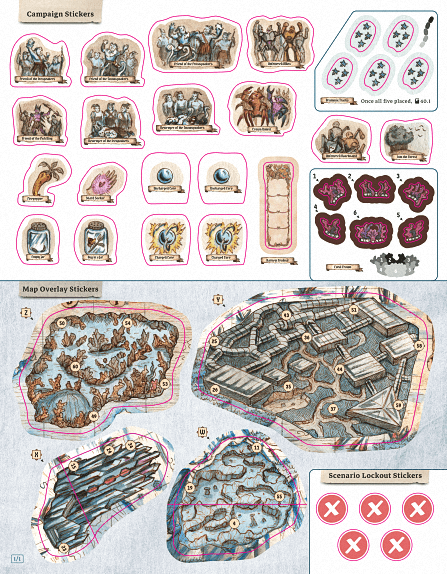
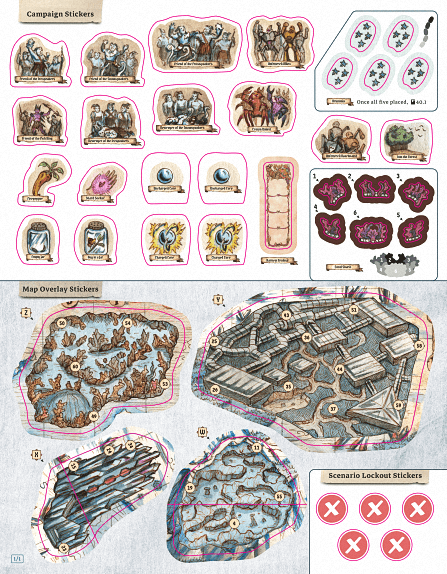
Implement FH DA ACS

diff --git a/data/deprecated-assets.js b/data/deprecated-assets.js
@@ -4179,57 +4179,85 @@
     "xws": "cspqrm002deprecated"
   },
   {
-    "name": "render 0 deprecated",
+    "name": "campaign stickers dl deprecated",
     "points": 597,
+    "expansion": "Frosthaven",
+    "image": "deprecated-assets/frosthaven/art/stickers/sheets/die-lines/fh-campaign-stickers-dl-v1.png",
+    "xws": "campaignstickersdldeprecated"
+  },
+  {
+    "name": "campaign stickers dl deprecated",
+    "points": 598,
+    "expansion": "Frosthaven",
+    "image": "art/frosthaven/stickers/sheets/die-lines/fh-campaign-stickers-dl.png",
+    "xws": "campaignstickersdldeprecated"
+  },
+  {
+    "name": "campaign stickers ndl deprecated",
+    "points": 599,
+    "expansion": "Frosthaven",
+    "image": "deprecated-assets/frosthaven/art/stickers/sheets/no-die-lines/fh-campaign-stickers-ndl-v1.png",
+    "xws": "campaignstickersndldeprecated"
+  },
+  {
+    "name": "campaign stickers ndl deprecated",
+    "points": 600,
+    "expansion": "Frosthaven",
+    "image": "art/frosthaven/stickers/sheets/no-die-lines/fh-campaign-stickers-ndl.png",
+    "xws": "campaignstickersndldeprecated"
+  },
+  {
+    "name": "render 0 deprecated",
+    "points": 601,
     "expansion": "Frosthaven",
     "image": "deprecated-assets/frosthaven/boss-stat-cards/fh-render-0-v1.png",
     "xws": "render0deprecated"
   },
   {
     "name": "render 0 deprecated",
-    "points": 598,
+    "points": 602,
     "expansion": "Frosthaven",
     "image": "monster-stat-cards/frosthaven/fh-render-0.png",
     "xws": "render0deprecated"
   },
   {
     "name": "render 2 deprecated",
-    "points": 599,
+    "points": 603,
     "expansion": "Frosthaven",
     "image": "deprecated-assets/frosthaven/boss-stat-cards/fh-render-2-v1.png",
     "xws": "render2deprecated"
   },
   {
     "name": "render 2 deprecated",
-    "points": 600,
+    "points": 604,
     "expansion": "Frosthaven",
     "image": "monster-stat-cards/frosthaven/fh-render-2.png",
     "xws": "render2deprecated"
   },
   {
     "name": "render 4 deprecated",
-    "points": 601,
+    "points": 605,
     "expansion": "Frosthaven",
     "image": "deprecated-assets/frosthaven/boss-stat-cards/fh-render-4-v1.png",
     "xws": "render4deprecated"
   },
   {
     "name": "render 4 deprecated",
-    "points": 602,
+    "points": 606,
     "expansion": "Frosthaven",
     "image": "monster-stat-cards/frosthaven/fh-render-4.png",
     "xws": "render4deprecated"
   },
   {
     "name": "render 6 deprecated",
-    "points": 603,
+    "points": 607,
     "expansion": "Frosthaven",
     "image": "deprecated-assets/frosthaven/boss-stat-cards/fh-render-6-v1.png",
     "xws": "render6deprecated"
   },
   {
     "name": "render 6 deprecated",
-    "points": 604,
+    "points": 608,
     "expansion": "Frosthaven",
     "image": "monster-stat-cards/frosthaven/fh-render-6.png",
     "xws": "render6deprecated"

diff --git a/index.html b/index.html
@@ -10090,7 +10090,7 @@
 								<h4><i class="fa fa-plus"></i> Campaign Stickers </h4>
 								<div class="textzone">
 									<table class="table-padded">
-										<tr><td>Brummix Tracks              </td><td>Destroyer Of The Snowspeakers</td><td>Friend Of The Snowspeakers</td><td>Overlay Y             </td></tr>
+										<tr><td>Brummix                     </td><td>Destroyer Of The Snowspeakers</td><td>Friend Of The Snowspeakers</td><td>Overlay Y             </td></tr>
 										<tr><td>Bug In Jar                  </td><td>Empty Jar                    </td><td>Harvest Festival          </td><td>Overlay Z             </td></tr>
 										<tr><td>Charged Core                </td><td>Firepepper                   </td><td>Into The Forest           </td><td>Shard Seeker          </td></tr>
 										<tr><td>Coral Crown                 </td><td>Friend Of The Fish King      </td><td>Lockout                   </td><td>Uncharged Core        </td></tr>
@@ -10191,6 +10191,14 @@
 										<tr><td>Outpost Stickers 24a Garden DL</td><td>Outpost Stickers 81 Hall Of Revelry 1 DL</td><td>Removable Sticker Set 1 DL      </td></tr>
 										<tr><td>Outpost Stickers 24b Garden DL</td><td>Outpost Stickers 81 Hall Of Revelry 2 DL</td><td>Removable Sticker Set 2 DL      </td></tr>
 									</table>
+									<table class="table-padded">
+										<tr><td>&nbsp</td></tr>
+										<tr><td>Deprecated Assets: Oldest Version ==> Newest Version; Single Card, Asset No Longer Exists</td></tr>
+									</table>
+									<table class="table-padded">
+										<tr><td>&nbsp</td></tr>
+										<tr><td>Campaign Stickers DL</td></tr>
+									</table>
 								</div>
 								<h4><i class="fa fa-plus"></i> No Die Lines </h4>
 								<div class="textzone">
@@ -10205,6 +10213,14 @@
 										<tr><td>Outpost Stickers 21 Inn NDL    </td><td>Outpost Stickers 74 Tavern NDL           </td><td>Puzzle Book NDL                  </td></tr>
 										<tr><td>Outpost Stickers 24a Garden NDL</td><td>Outpost Stickers 81 Hall Of Revelry 1 NDL</td><td>Removable Sticker Set 1 NDL      </td></tr>
 										<tr><td>Outpost Stickers 24b Garden NDL</td><td>Outpost Stickers 81 Hall Of Revelry 2 NDL</td><td>Removable Sticker Set 2 NDL      </td></tr>
+									</table>
+									<table class="table-padded">
+										<tr><td>&nbsp</td></tr>
+										<tr><td>Deprecated Assets: Oldest Version ==> Newest Version; Single Card, Asset No Longer Exists</td></tr>
+									</table>
+									<table class="table-padded">
+										<tr><td>&nbsp</td></tr>
+										<tr><td>Campaign Stickers NDL</td></tr>
 									</table>
 								</div>
 							</div>

diff --git a/data/art.js b/data/art.js
@@ -20405,11 +20405,11 @@
     "xws": "piratequeenshauls"
   },
   {
-    "name": "brummix tracks",
+    "name": "brummix",
     "points": 2915,
     "expansion": "Frosthaven",
-    "image": "art/frosthaven/stickers/individual/campaign-stickers/fh-brummix-tracks.png",
-    "xws": "brummixtracks"
+    "image": "art/frosthaven/stickers/individual/campaign-stickers/fh-brummix.png",
+    "xws": "brummix"
   },
   {
     "name": "bug in jar",
